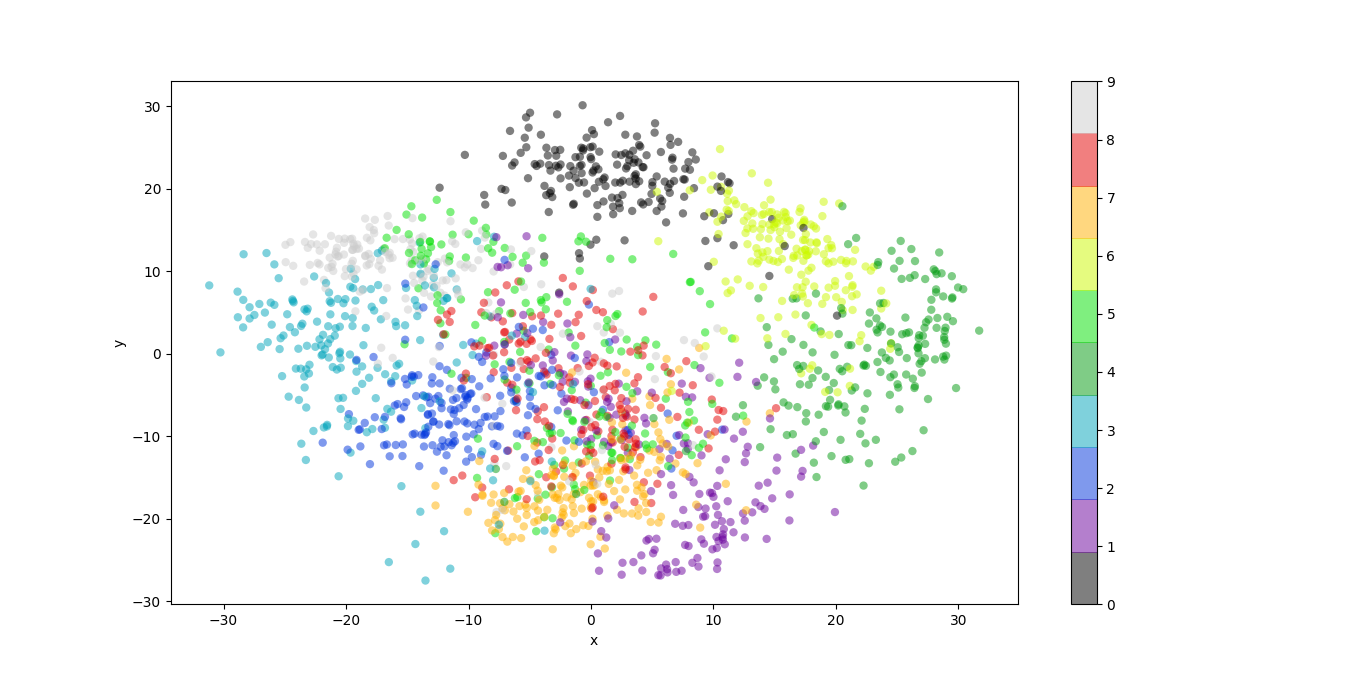
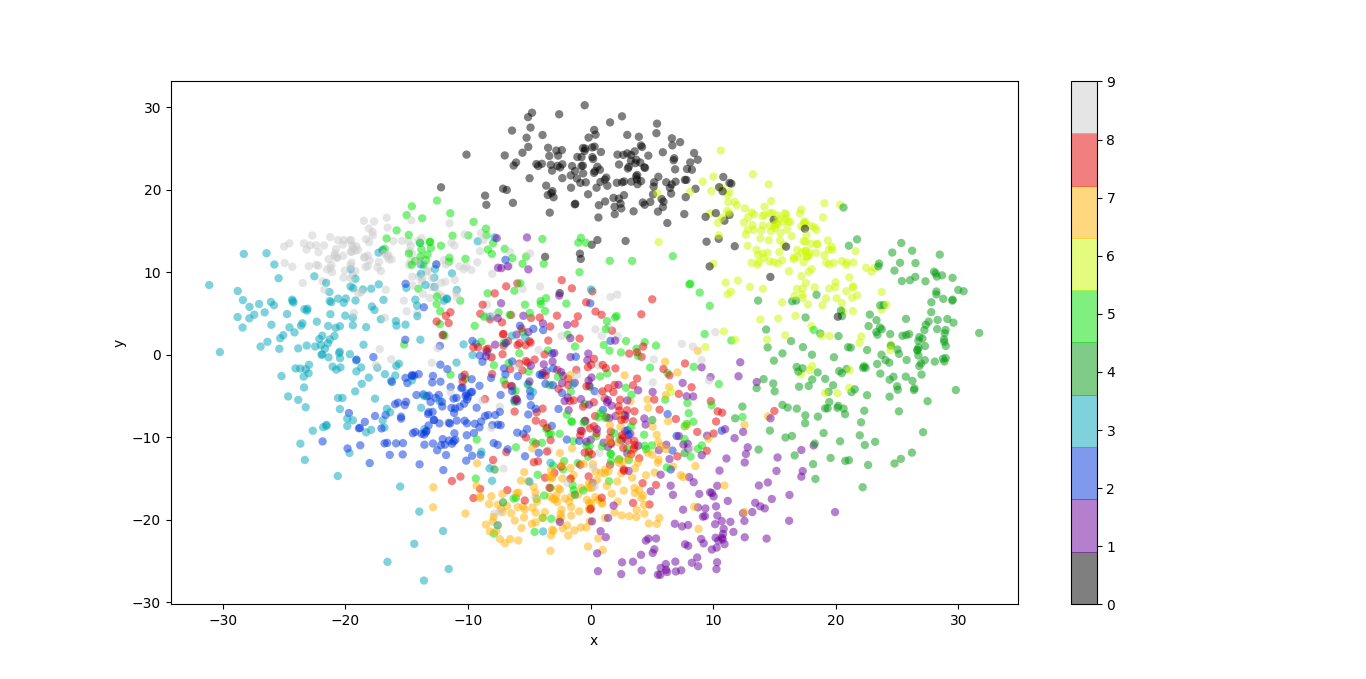
to pca

diff --git a/run.py b/run.py
@@ -1,9 +1,11 @@
+import argparse
+
 import numpy as np
 
-from utils.data import load_data
+from utils.data import load_data, to_markdown
 from utils.model import train_model
-from utils.plot import plot_graph
-import argparse
+from utils.plot import plot_graph, plot_pca
+
 
 def parse_args():
     def str2bool(v):
@@ -25,14 +27,17 @@ def parse_args():
 
     return parser.parse_args()
 
-if __name__ == '__main__':
 
+if __name__ == '__main__':
     np.random.seed(1)
 
     args = parse_args()
 
     features, labels = load_data()
+    to_markdown(features, labels)
 
-    model = train_model(features, labels,args)
+    plot_pca(features.to_numpy(), labels.to_numpy())
 
-    plot_graph(model, features, labels,'RandomForest-gs-graph')
+    model = train_model(features, labels, args)
+
+    plot_graph(model, features, labels, 'RandomForest-gs-graph')

diff --git a/utils/plot.py b/utils/plot.py
@@ -3,6 +3,7 @@ import os
 import matplotlib.pyplot as plt
 import numpy as np
 import seaborn as sns
+from sklearn.decomposition import PCA
 from sklearn.tree import export_graphviz
 
 from utils.data import fet_lab_names
@@ -35,3 +36,16 @@ def plot_graph(model, features, labels, graph_name):
                     precision=2, proportion=True)
 
     os.system(f'dot {param} {dot_path} -o {svg_path}')
+
+
+def plot_pca(features, labels):
+    pca = PCA(n_components=2)
+    projections = pca.fit_transform(features)
+    plt.scatter(projections[:, 0], projections[:, 1],
+                c=labels, edgecolor='none', alpha=0.5,
+                cmap=plt.cm.get_cmap('nipy_spectral', 10))
+    plt.xlabel('x')
+    plt.ylabel('y')
+    plt.colorbar()
+    plt.savefig(FIGURES_DIR+'Figure_digits'+'.png')
+    plt.show()

diff --git a/utils/data.py b/utils/data.py
@@ -1,6 +1,8 @@
 import pandas as pd
 from sklearn import datasets
 
+DATA_DIR = 'data/'
+
 
 def load_data():
     data = datasets.load_digits()
@@ -13,6 +15,7 @@ def load_data():
 
     df = pd.DataFrame(data=features, columns=['pix' + str(el) for el in range(feature_size)])
     df['label'] = labels
+
     del features, labels
 
     return df.iloc[:, :feature_size], df.iloc[:, feature_size]
@@ -22,3 +25,9 @@ def fet_lab_names(features, labels):
     assert isinstance(features, pd.DataFrame)
     assert isinstance(labels, pd.Series)
     return list(features.columns), list(map(str, list(labels.unique())))
+
+
+def to_markdown(features, labels):
+    features['label'] = labels
+    with open(DATA_DIR + 'digits.txt', 'w') as f:
+        f.write(features.head(50).to_markdown())
